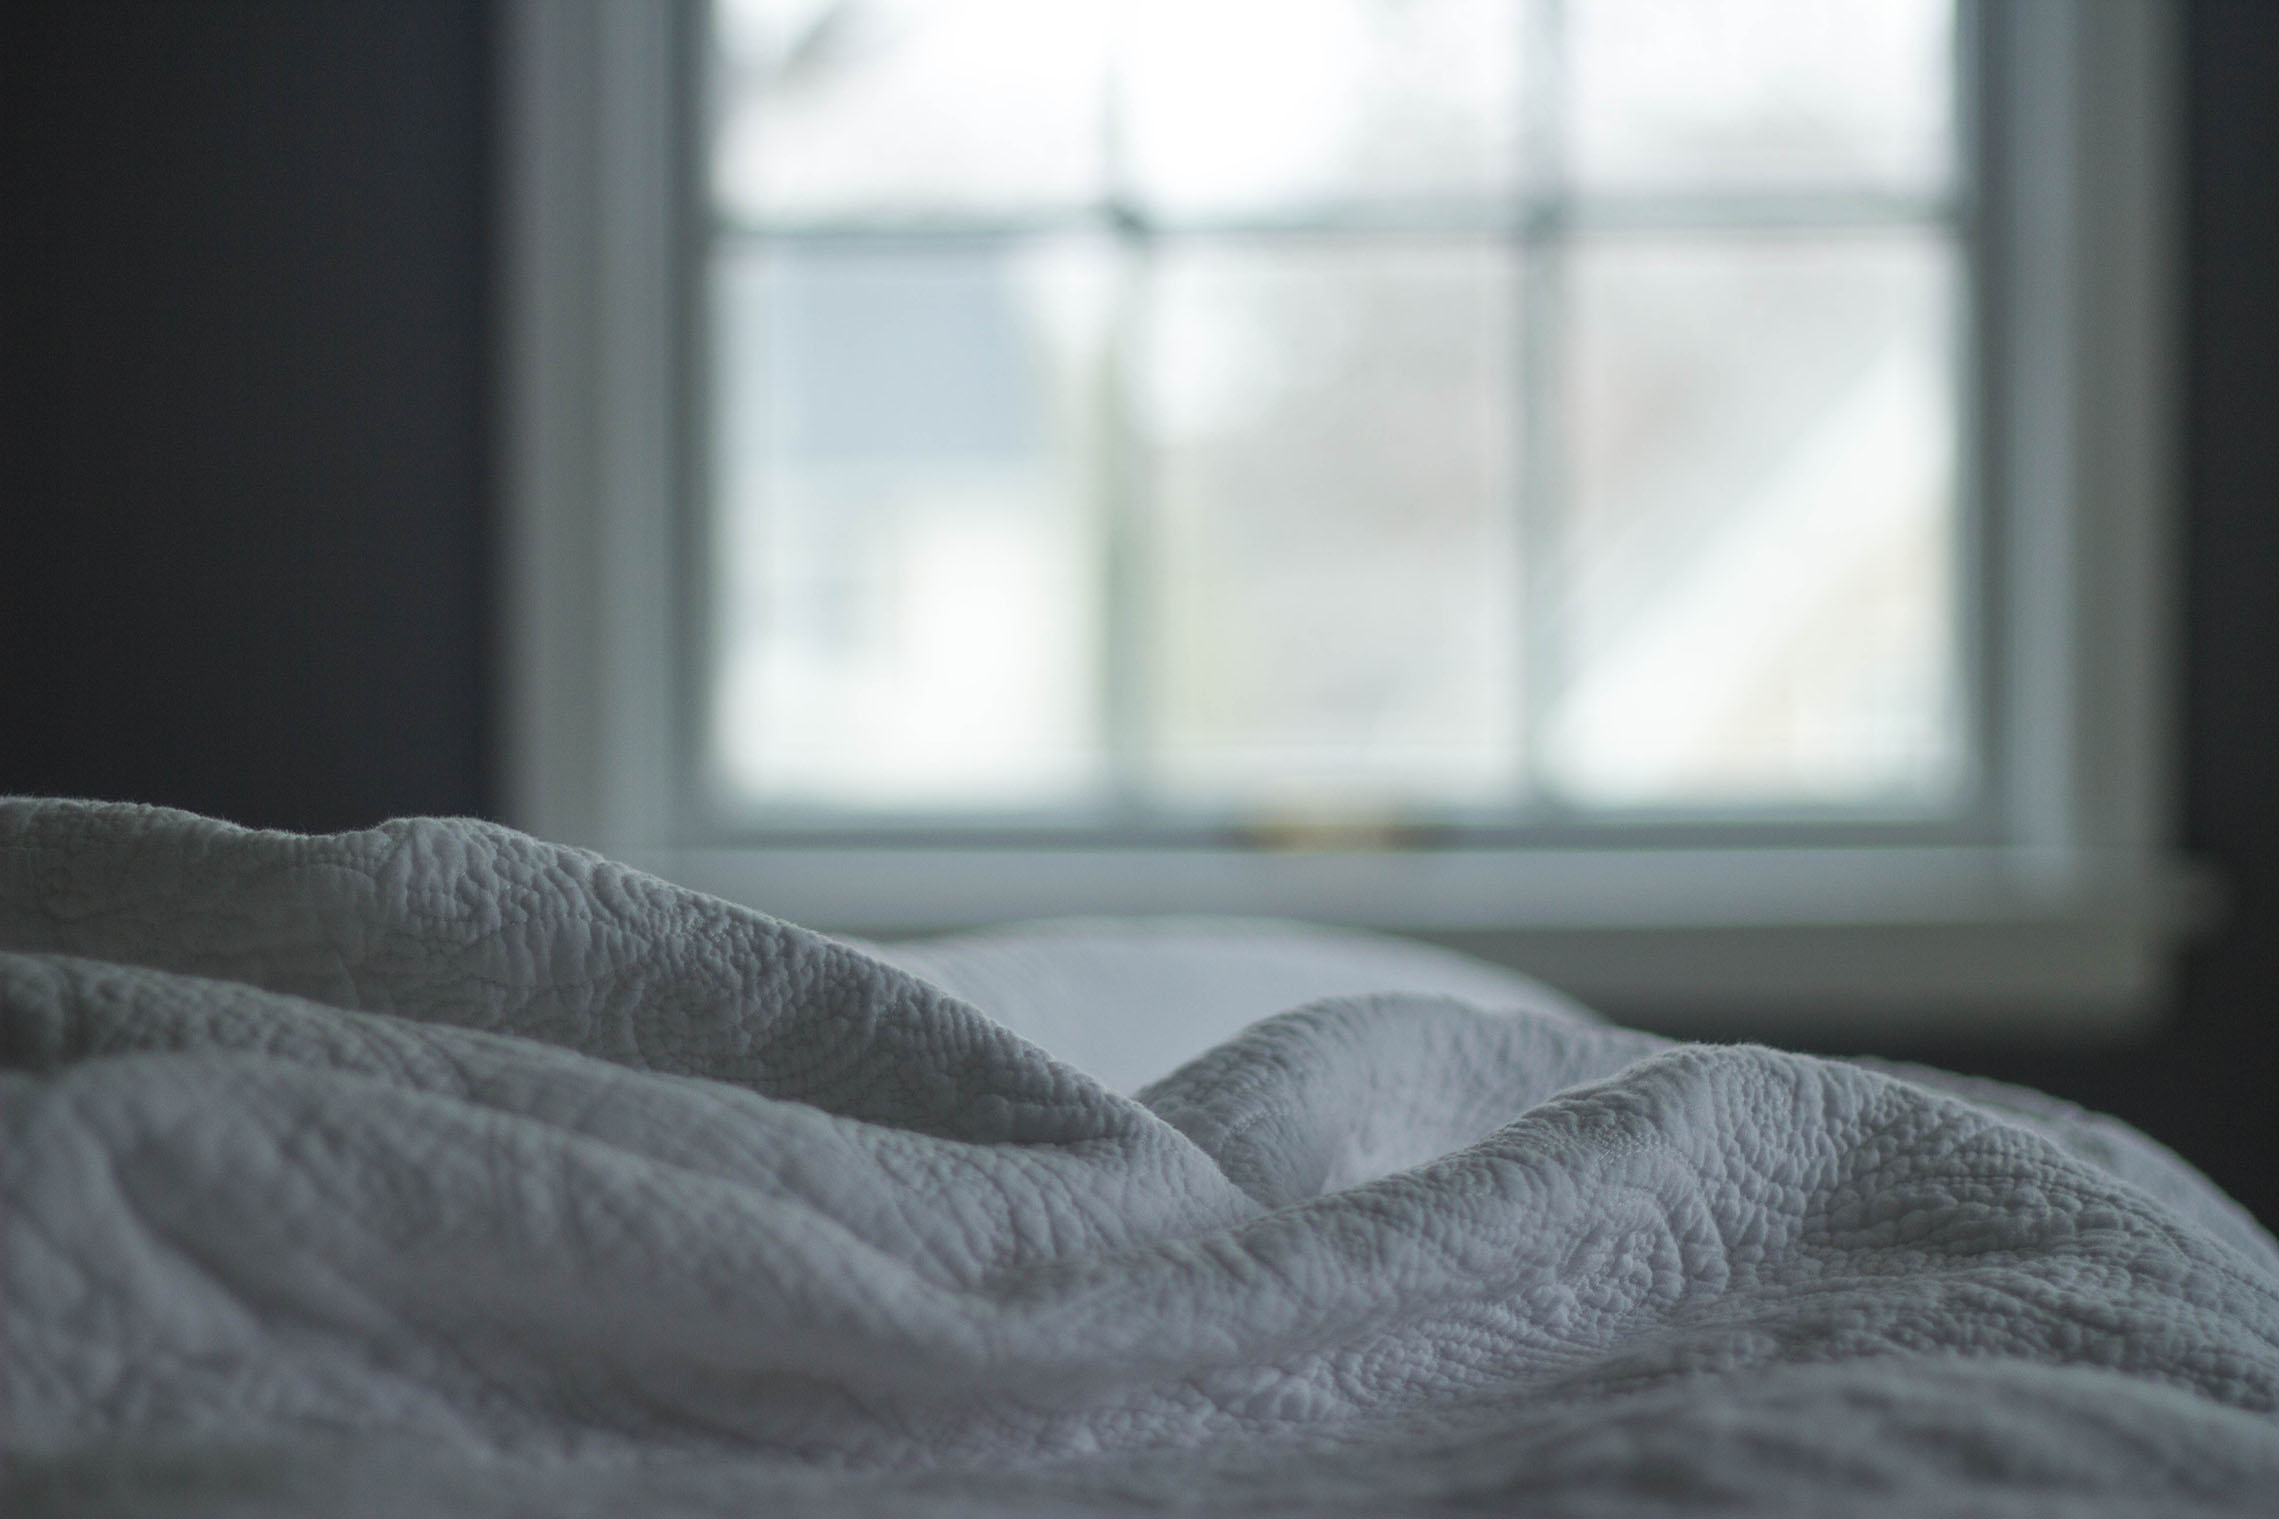
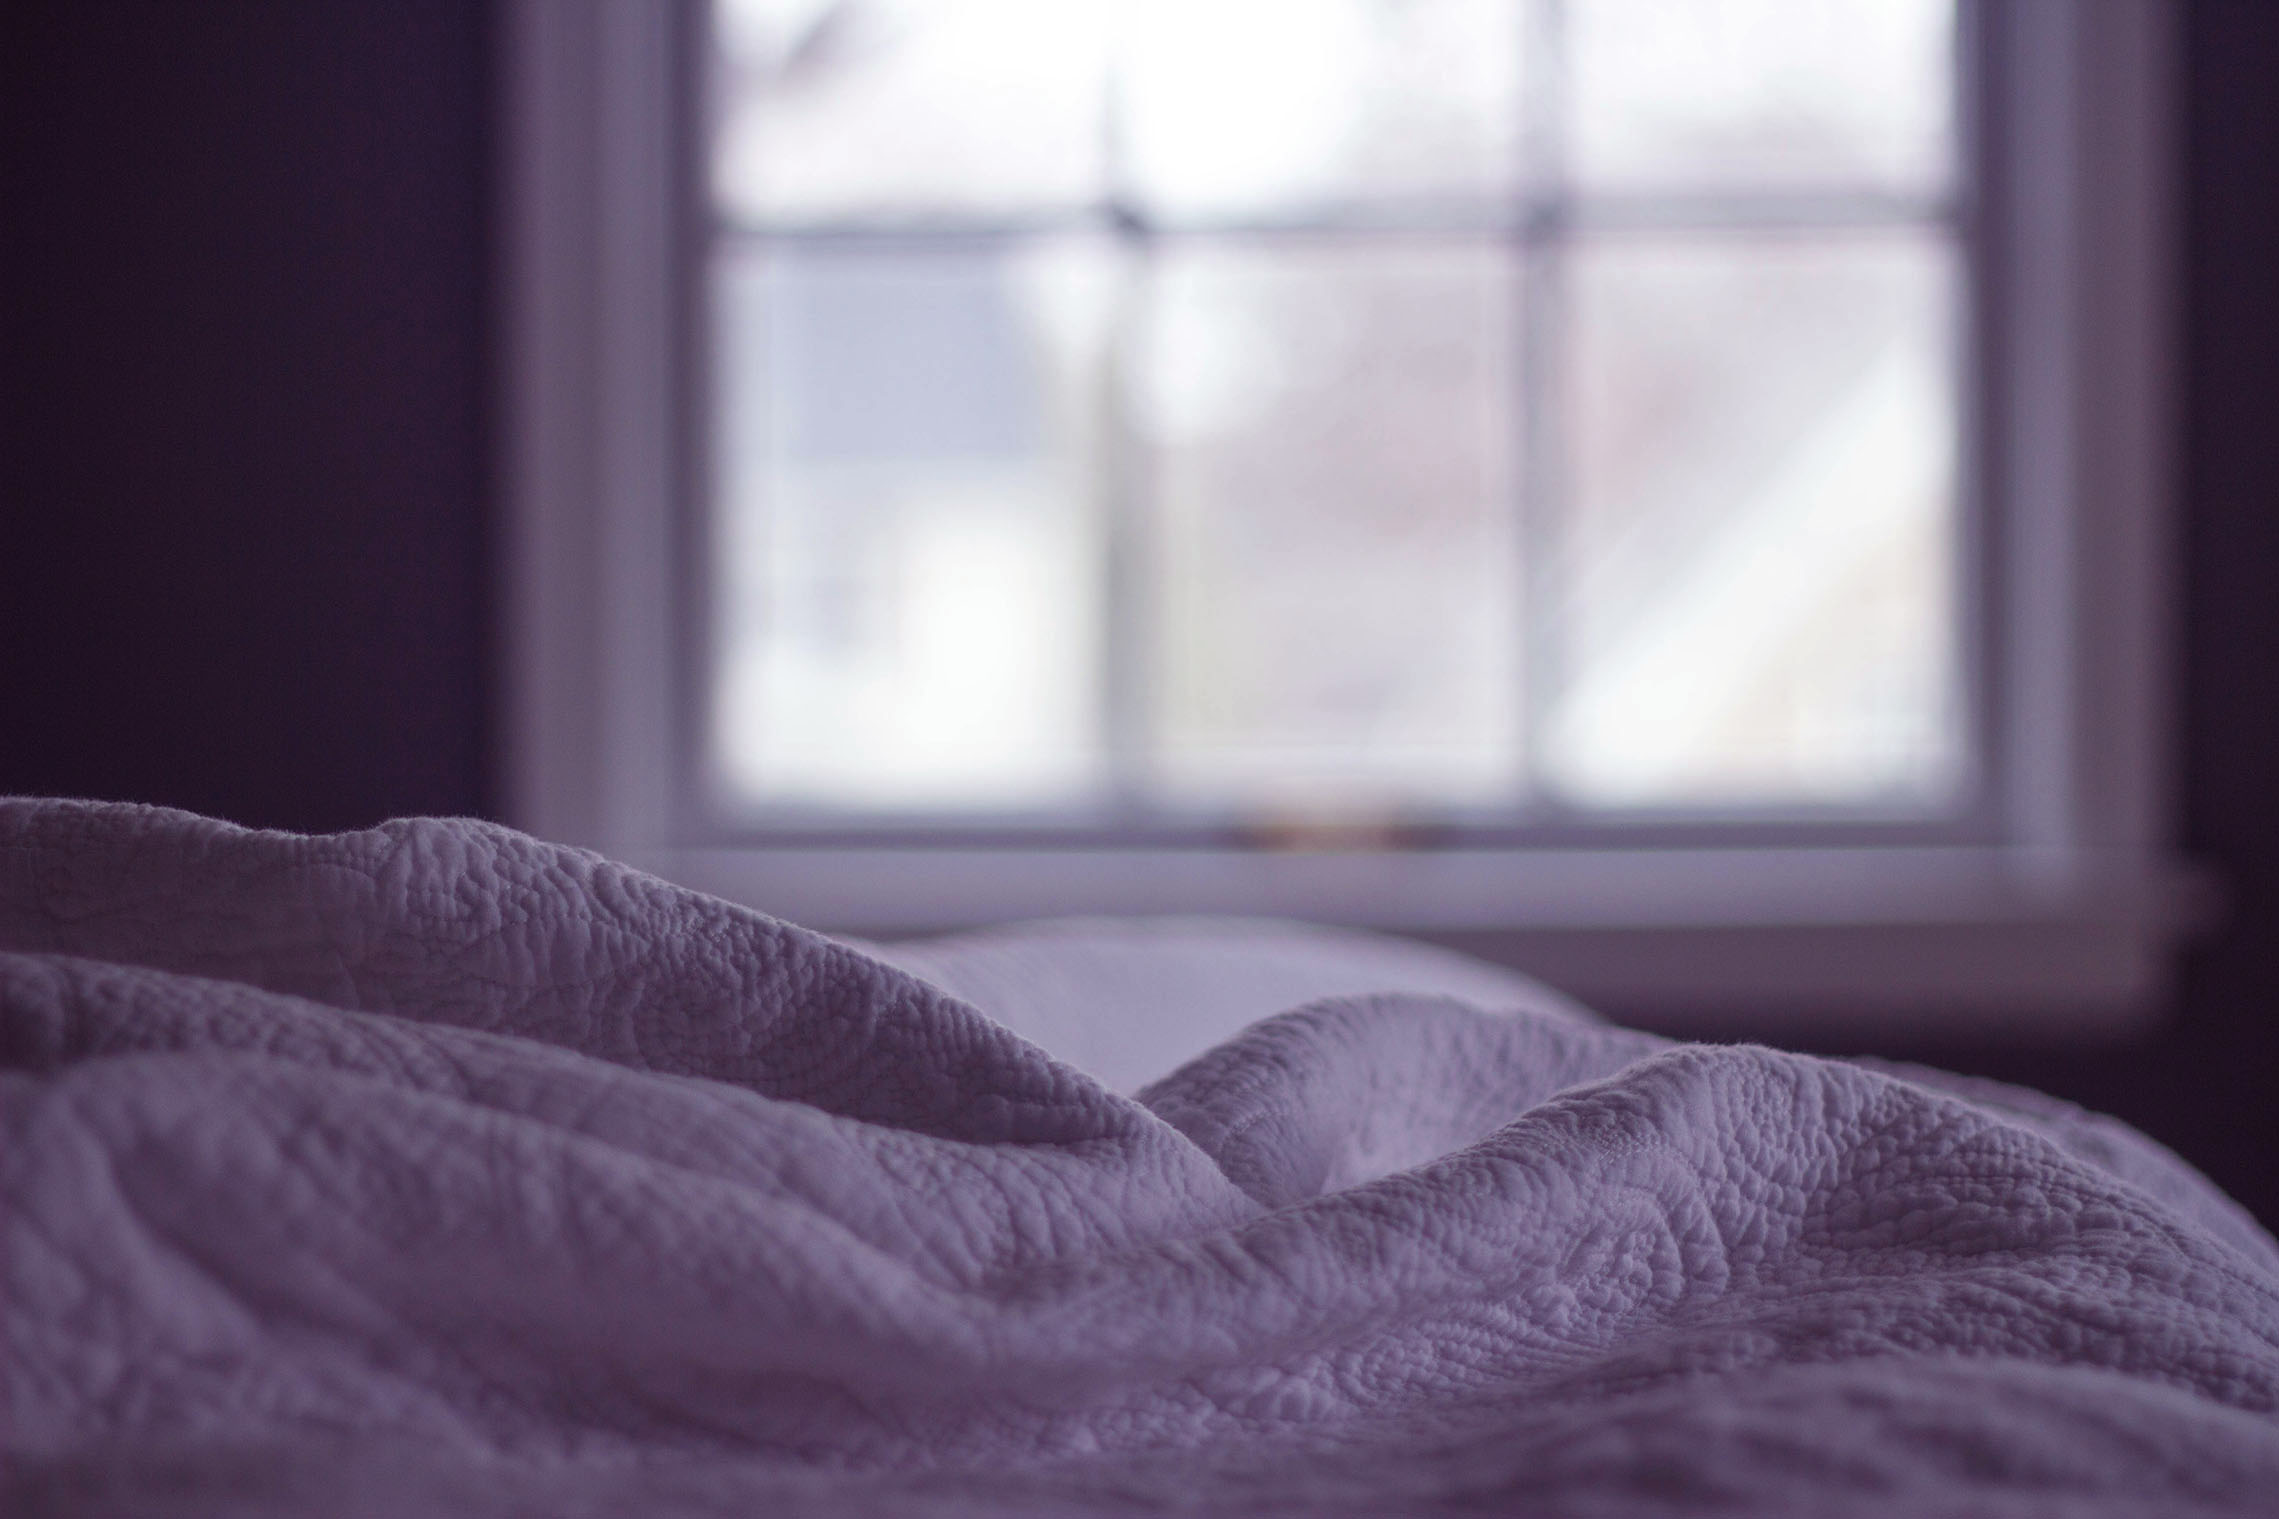
purple color theme

diff --git a/css/stylish-portfolio.css b/css/stylish-portfolio.css
@@ -8,12 +8,12 @@
 /*Added*/
 
 .bg-primary {
-  background-color: #455A64;
+  background-color: #3b2345;
 }
 
 .text-primary,
 a {
-  color: #455A64;
+  color: #3b2345;
 }
 
 
